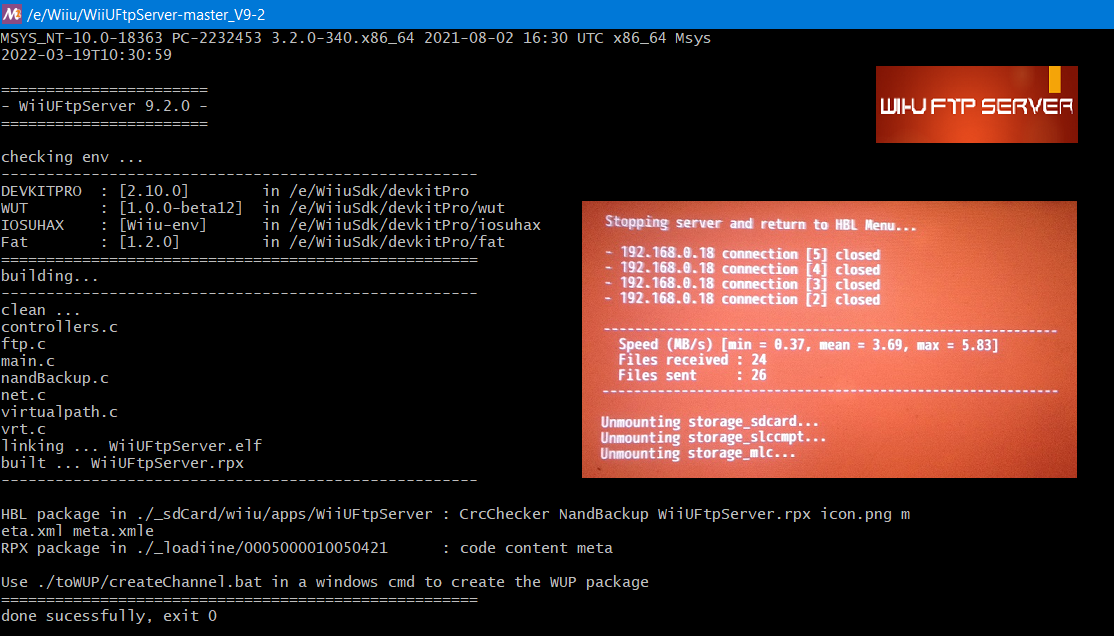
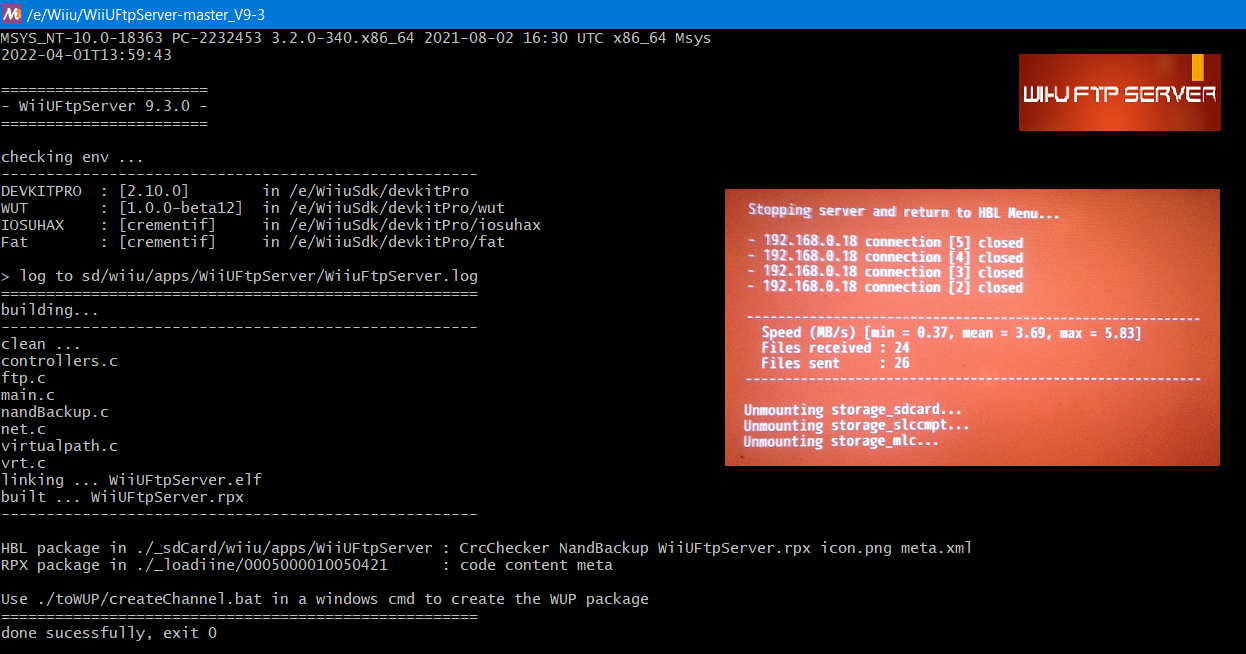
V9-3
2022/04/01 V9-3 :    
    > use libFat and libIOSUHAX versions from Crementif (thanks!!!) : better timestamps and symplinks support 
    > now symlinks are identified in FTP client browser
    > fix regression Cyberduck connection failure #15
    > fix FileZilla client fail to delete a folder #16 
    > fix WinScp fail to list root #17 
    > fix sd drive mount twice after the NAND files backup
    > add the ftp_RMD command (equivalent to ftp_DELE)
    > update meta.xml template
    > fix case for folders names in ./toWUP/createChannel.bat 
    > fix release date patching in meta.xml in build.sh

Changed region(s): [[0.0, 0.0, 1.0, 0.956], [0.763, 0.0597, 1.0, 0.239], [0.0, 0.956, 0.1831, 0.9858]]

diff --git a/src/ftp.c b/src/ftp.c
@@ -73,8 +73,8 @@ static char *password = NULL;
 
 // OS time computed in main
 static struct tm *timeOs=NULL;
-// OS time computed in main
-static time_t tsOs=0;
+// OS time creation date = 31/12/2009
+static const time_t minTime = 1262214000;
 
 static connection_t *connections[FTP_NB_SIMULTANEOUS_TRANSFERS] = { NULL };
 static volatile void *transferBuffers[FTP_NB_SIMULTANEOUS_TRANSFERS] = { NULL };
@@ -129,40 +129,8 @@ int32_t create_server(uint16_t port) {
     display("    @@@@@@@@@@@@@@@@@@@@@@@@@@@@@@@@@@@@@@@@@@@@@@@@@");
     display(ipText);
     display("    @@@@@@@@@@@@@@@@@@@@@@@@@@@@@@@@@@@@@@@@@@@@@@@@@");
-    if (timeOs != NULL && tsOs == 0) {
-        time_t ts1970=mktime(timeOs);
-        tsOs = ts1970*1000000 + 86400*((366*2) + (365*8) +1);
-    }
-
+    
     return listener;
-}
-
-// transform a date from J1980 with microseconds to J1970 (UNIX epoch)
-// GetStat can return 0 with faulty time stamp ! -> add check on time stamp value
-static struct tm getDateEpoch(time_t ts1980) {
-    // output
-    struct tm *time=NULL;
-    // initialized with timeOs
-    if (timeOs == NULL) return *(localtime(NULL));
-
-    if (ts1980 == 0) return (*timeOs);
-    time=timeOs;
-
-    // check ts1980 value (1980 epoch with micro seconds)
-    // 01/01/2010 00:00:00 -> 946771200,  with us = 946771200000000
-    // 01/01/2038 00:00:00 -> 1830384000, with us = 1830384000000000
-    time_t tsMax = tsOs + 86400*2;
-
-    if ( ts1980 <= 946771200000000 || ts1980 >= tsMax) return *time;
-
-    // compute the timestamp in J1970 Epoch (1972 and 1976 got 366 days)
-    time_t ts1970 = ts1980/1000000 + 86400*((366*2) + (365*8));
-
-    // get the corresponding tm
-    time=localtime(&ts1970);
-
-    return (*time);
-
 }
 
 // vPath : /storage_usb/path/saveinfo.xml -> vlPath : /vol/storage_usb01/path/saveinfo.xml
@@ -572,7 +540,12 @@ static void secureAndSplitPath(char *cwd, char* path, char **folder, char **file
     *folder = NULL;
     char *pos = NULL;
     
-    if ( (strcmp(cwd, "/") == 0) && ((strcmp(path, ".") == 0) || (strcmp(path, "/") == 0)) ) {
+    #ifdef LOG2FILE
+        writeToLog("secureAndSplitPath cwd=%s", cwd);
+        writeToLog("secureAndSplitPath path=%s", path);
+    #endif
+    
+    if ( (strcmp(cwd, "/") == 0) && (path &&((strcmp(path, ".") == 0) || (strcmp(path, "/") == 0))) ) {
         
         // allocate and copy folder with cwd
         *folder = (char *)malloc (strlen(cwd)+1);
@@ -609,7 +582,7 @@ static void secureAndSplitPath(char *cwd, char* path, char **folder, char **file
     #endif
 
             // if first char is a slash
-            if (path[0] == '/') {
+            if ((path[0] == '/') && (strlen(path) > 1)) {
                 // path gives the whole full path
 
                 // get the folder from path
@@ -679,31 +652,43 @@ static void secureAndSplitPath(char *cwd, char* path, char **folder, char **file
                         }
                     }
                 } else {
-                                    
-                    // path is not given, cwd gives the whole full path
-                    if (strcmp(cwd, "/") != 0) {
-
-    #ifdef LOG2FILE
-                        writeToLog("secureAndSplitPath cwd=%s", cwd);
-    #endif
+                    if (strlen(path) == 1) {
+                        if (strcmp(path, "/") == 0) {
+                            
+                            *folder = (char *)malloc (2);
+                            strcpy(*folder, "/");
+                            *fileName = (char *)malloc (2);
+                            strcpy(*fileName, ".");
+                            
+                        }
+                        // else should be '.'
+                    } else {
                     
-                        // get path from cwd
-                        path = getLastItemOfPath(cwdNoSlash);
-                        *fileName = (char *)malloc (strlen(path)+1);
-                        strcpy(*fileName, path);
+                        // path is not given, cwd gives the whole full path
+                        if (strcmp(cwd, "/") != 0) {
 
-                        pos = strrchr(cwdNoSlash, '/');
-                        // folder is allocated by strndup
-                        *folder = strndup(cwdNoSlash, strlen(cwdNoSlash)-strlen(pos));
+        #ifdef LOG2FILE
+                            writeToLog("secureAndSplitPath cwd=%s", cwd);
+        #endif
+                        
+                            // get path from cwd
+                            path = getLastItemOfPath(cwdNoSlash);
+                            *fileName = (char *)malloc (strlen(path)+1);
+                            strcpy(*fileName, path);
 
-                        // update cwd
-                        strcpy(cwd, *folder);
-                        strcat(cwd, "/");
-                        
-    #ifdef LOG2FILE
-                        writeToLog("secureAndSplitPath fileName4=%s", *fileName);
-    #endif
-                        
+                            pos = strrchr(cwdNoSlash, '/');
+                            // folder is allocated by strndup
+                            *folder = strndup(cwdNoSlash, strlen(cwdNoSlash)-strlen(pos));
+
+                            // update cwd
+                            strcpy(cwd, *folder);
+                            strcat(cwd, "/");
+                            
+        #ifdef LOG2FILE
+                            writeToLog("secureAndSplitPath fileName4=%s", *fileName);
+        #endif
+                            
+                        }
                     }
                 }
             }
@@ -746,6 +731,7 @@ static void secureAndSplitPath(char *cwd, char* path, char **folder, char **file
             
         }
     }
+    
 }
 
 static int32_t ftp_PWD(connection_t *connection, char *rest UNUSED) {
@@ -782,7 +768,7 @@ static int32_t ftp_PWD(connection_t *connection, char *rest UNUSED) {
         }
     #ifdef LOG2FILE
         writeToLog("C[%d] ftp_PWD new dir = %s", connection->index+1, connection->cwd);
-        display("%s", msg);
+        writeToLog("%s", msg);
     #endif
         
         if (parentFolder != NULL) free(parentFolder);
@@ -802,7 +788,6 @@ static int32_t ftp_CWD(connection_t *connection, char *path) {
     char *baseName = NULL;
 
     secureAndSplitPath(connection->cwd, path, &folder, &baseName);
-    
 #ifdef LOG2FILE
     writeToLog("C[%d] ftp_CWD folder=%s, baseName=%s", connection->index+1, folder, baseName);
 #endif
@@ -1284,6 +1269,12 @@ static int32_t send_list(int32_t data_socket, DIR_P *iter) {
 
     int32_t result = 0;
 
+    // compute dates intervals for checks
+    // min t = J2012
+    time_t min = minTime;
+    // max t = timeOS(GMT)+24H
+    time_t max = mktime(timeOs) + 86400.0;
+        
     char filename[MAXPATHLEN] = "";
     char line[2*MAXPATHLEN + 56 + CRLF_LENGTH + 1];
     struct dirent *dirent = NULL;
@@ -1293,15 +1284,40 @@ static int32_t send_list(int32_t data_socket, DIR_P *iter) {
         snprintf(filename, sizeof(filename), "%s/%s", iter->path, dirent->d_name);
         
         struct stat st;
-        stat(filename, &st);
+         
+        // initialize to session date
+        struct tm *timeInfo = timeOs;
+        uint64_t size = 0;
         
-        // compute date to display : transform a date from J1980 with microseconds to J1970 (UNIX epoch)
-        struct tm timeinfo = getDateEpoch((time_t)st.st_mtime);
+        // dim+1 needed
+        char permissions[10] = "rwxr-xr-x";
 
+        // check the code returned for setting the modified date
+        if (stat(filename, &st) == 0) {
+            // modified time
+            time_t mtime = st.st_mtime;
+            
+            // check modified date returned
+            if (mtime > min && mtime < max) { 
+                timeInfo = localtime(&mtime);
+            }
+            
+            // size
+            size = st.st_size;
+            
+            // permissions
+            if S_ISLNK(st.st_mode) strcpy(permissions, "[symlink]");
+
+        }
+        
         // dim = 13
         char timestamp[13]="";
-        strftime(timestamp, sizeof(timestamp), "%b %d  %Y", &timeinfo);
-        snprintf(line, sizeof(line), "%crwxr-xr-x    1 0        0     %10llu %s %s\r\n", (dirent->d_type & DT_DIR) ? 'd' : '-', st.st_size, timestamp, dirent->d_name);
+        strftime(timestamp, sizeof(timestamp), "%b %d  %Y", timeInfo);
+        
+        char fileType = 'd';
+        if (dirent->d_type == DT_REG) fileType = '-';
+        
+        snprintf(line, sizeof(line), "%c%s    1 USER     WII-U %10llu %s %s\r\n", fileType, permissions, size, timestamp, dirent->d_name);
         if ((result = send_exact(data_socket, line, strlen(line))) < 0) {
             break;
         }
@@ -1350,7 +1366,7 @@ static int32_t ftp_LIST(connection_t *connection, char *path) {
     if (!*path) {
         path = ".";
     }
-
+    
 #ifdef LOG2FILE
     writeToLog("C[%d] ftp_LIST : listing cwd=%s path=%s", connection->index+1, connection->cwd, path); 
 #endif            
@@ -1434,10 +1450,15 @@ static int32_t ftp_RETR(connection_t *connection, char *path) {
     secureAndSplitPath(connection->cwd, path, &folder, &fileName);
     strcat(folder, "/");
     char *filePath = to_real_path(folder, fileName);
-    // file or symlink
-    if (access(filePath, F_OK) != 0) {
+    
+    // file or symlink ?
+    struct stat st;
+    stat(filePath, &st);
+    
+    if S_ISLNK(st.st_mode) {
+        
 #ifdef LOG2FILE
-            writeToLog("C[%d] ftp_RETR : symlink detected = %s", connection->index+1, filePath); 
+        writeToLog("C[%d] ftp_RETR : symlink detected = %s", connection->index+1, filePath); 
 #endif            
         // symlink
         char *resolved = NULL;

diff --git a/src/net.c b/src/net.c
@@ -598,7 +598,7 @@ int32_t recv_to_file(int32_t s, connection_t* connection) {
     // the more connections are opened the more it sleeps
     int nbt = getActiveTransfersNumber();
     if ( nbt >=3 ) {
-        OSSleepTicks(OSMillisecondsToTicks(nbt*10));    
+        OSSleepTicks(OSMillisecondsToTicks(nbt*nbt));    
         OSSetThreadPriority(&connection->transferThread, 2*NB_SIMULTANEOUS_TRANSFERS);  
     }
     

diff --git a/src/nandBackup.h b/src/nandBackup.h
@@ -21,8 +21,6 @@
 #define FSA_STATUS_NOT_FOUND                -23
 #define FSA_STATUS_NOT_EMPTY                -24
 
-#define DIR_ENTRY_IS_DIRECTORY              0x80000000
-
 uint32_t folderEmpty(const char * fPath);
 uint32_t checkEntry(const char * fPath);
 

diff --git a/src/ftp.h b/src/ftp.h
@@ -65,7 +65,7 @@ misrepresented as being the original software.
 
 #define FTP_STACK_SIZE (20*1024)
 
-#define FTP_TRANSFER_STACK_SIZE (32*1024)
+#define FTP_TRANSFER_STACK_SIZE (18*1024)
 
 
 #ifdef __cplusplus
